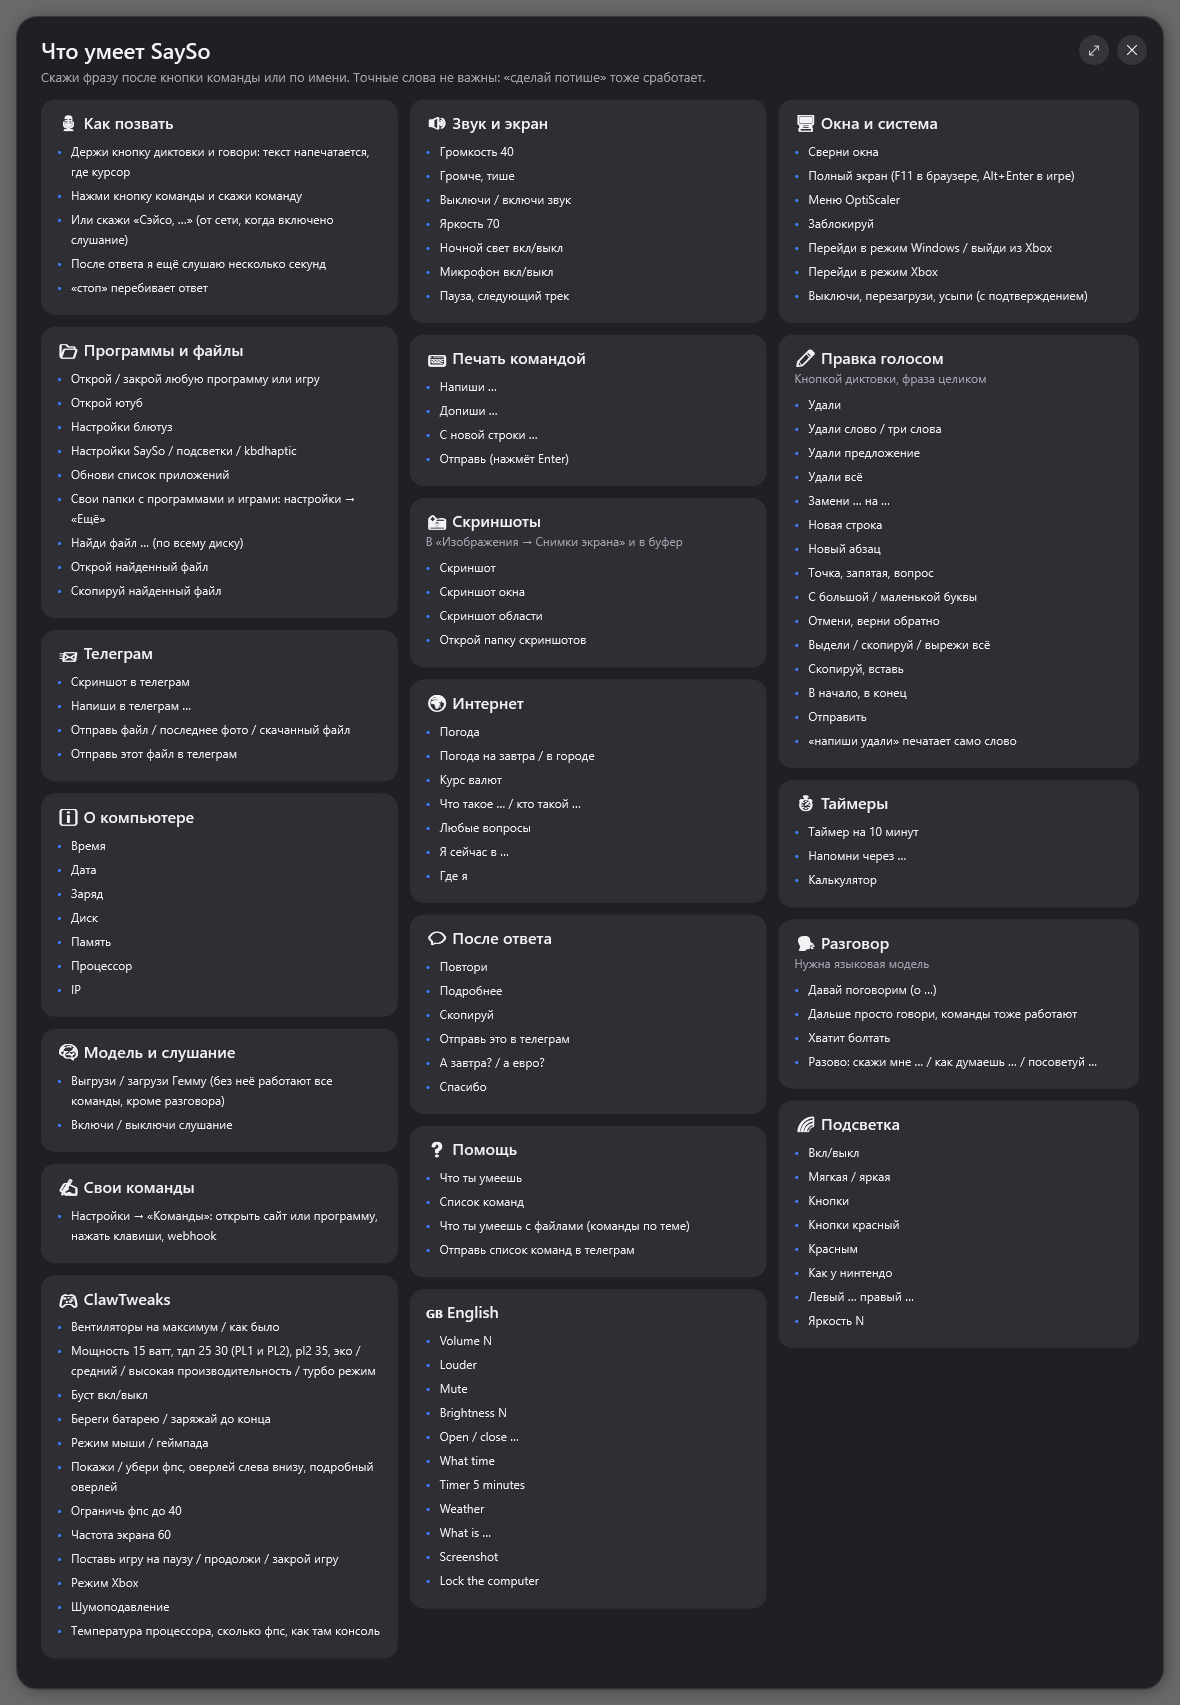
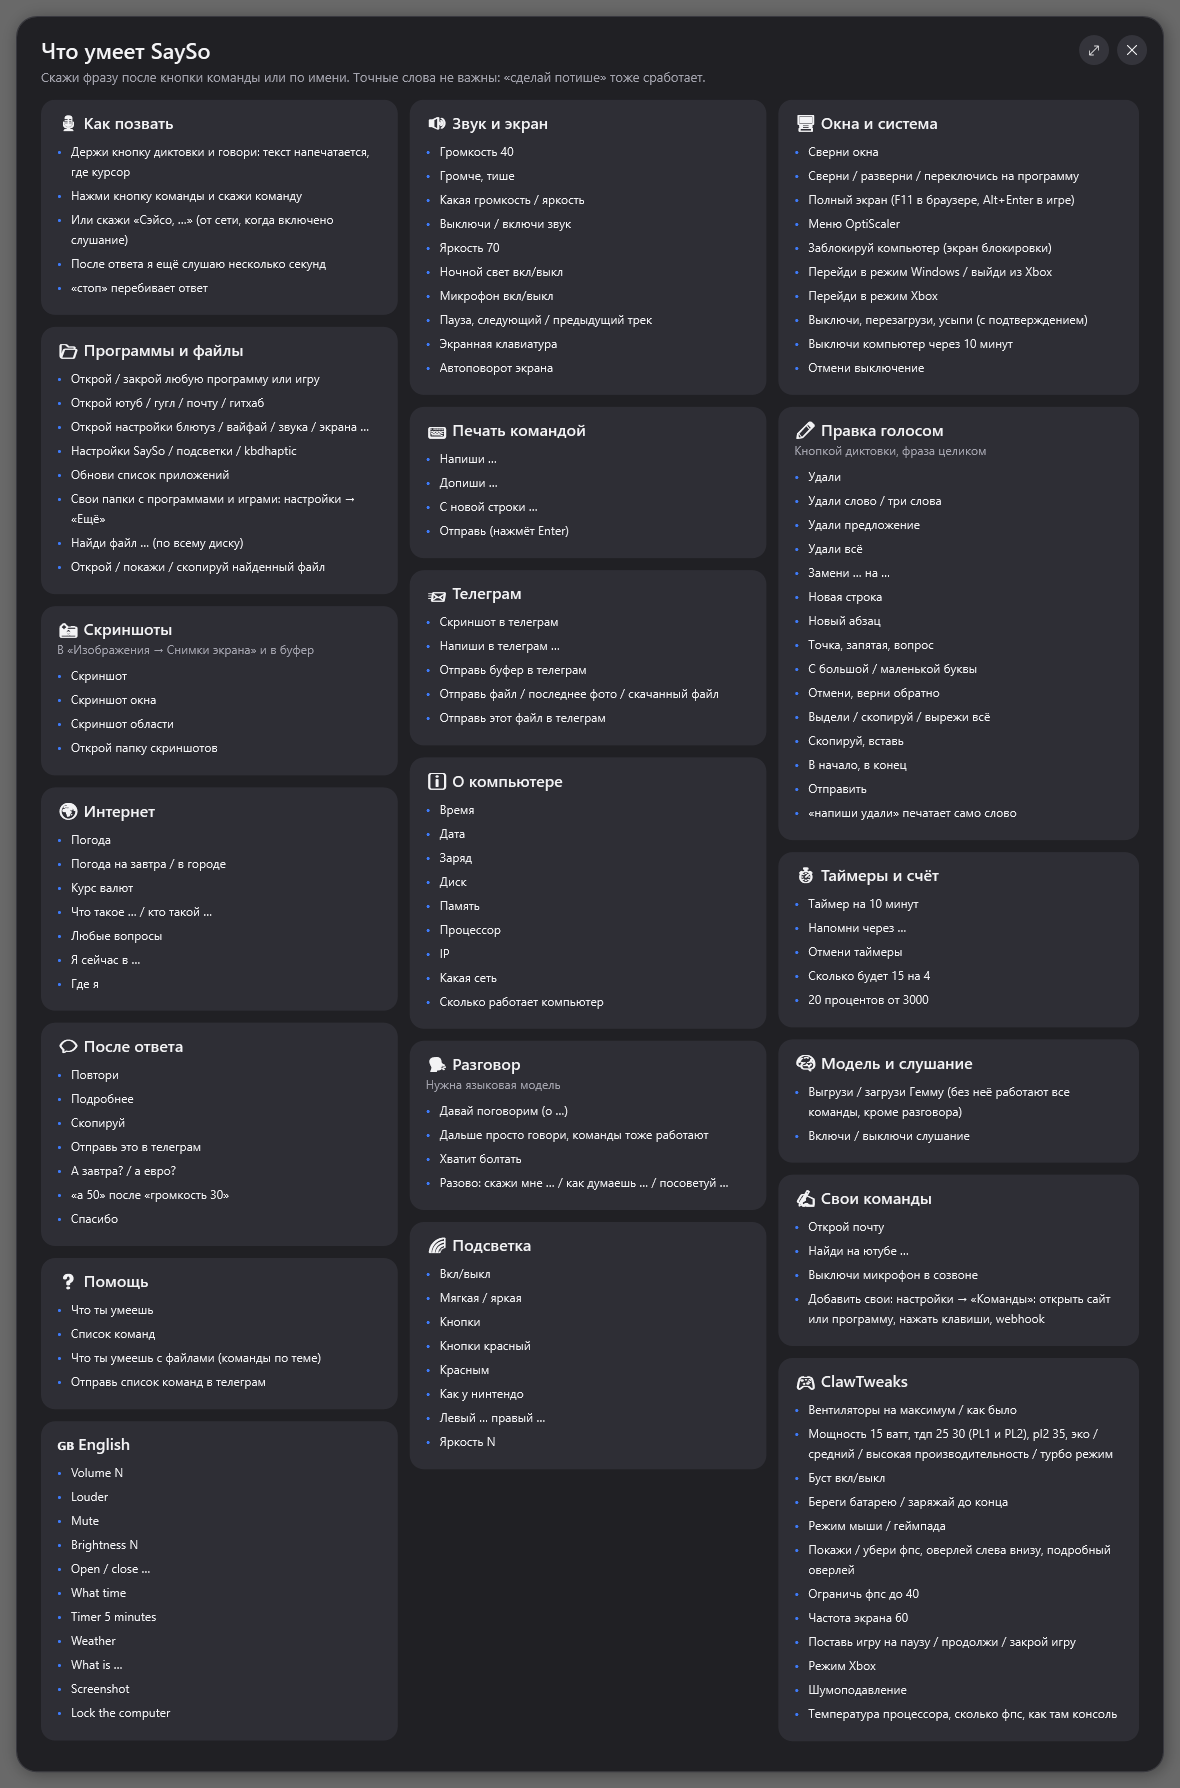
Fuller 'Что умеет' list, no Yandex/VK/Kinopoisk, real sleep where the PC has S3, new screenshot

diff --git a/docs/ВОЗМОЖНОСТИ.md b/docs/ВОЗМОЖНОСТИ.md
@@ -29,22 +29,22 @@
 - **Беседа:** «давай поговорим», дальше говоришь просто так. Команды при этом тоже работают. «Хватит болтать» заканчивает беседу.
 - **Разовые вопросы:** «скажи мне …», «как думаешь …», «посоветуй …».
 - **Про последний ответ:** «повтори», «подробнее», «скопируй», «отправь это в телеграм».
-- **Продолжить тему:** «а завтра?», «а евро?».
+- **Продолжить тему:** «а завтра?», «а евро?», «а 50» после «громкость 30».
 
 ## Компьютер
-- **Звук и экран:** громкость 50, громче, тише, яркость 70.
+- **Звук и экран:** громкость 50, громче, тише, яркость 70, «какая громкость», экранная клавиатура, автоповорот экрана.
 - **Включить или выключить:** звук, микрофон, ночной свет.
-- **Музыка:** пауза, следующий трек.
-- **Окна:** сверни окна, полный экран (в браузере это F11, в игре Alt+Enter), меню OptiScaler (клавиша Insert), заблокируй компьютер.
+- **Музыка:** пауза, следующий и предыдущий трек.
+- **Окна:** сверни окна, «сверни / разверни / переключись на» программу, полный экран (в браузере это F11, в игре Alt+Enter), меню OptiScaler (клавиша Insert), заблокируй компьютер (экран блокировки Windows).
 - **Настройки наших программ:** «настройки SaySo», «настройки подсветки», «настройки хаптика», «открой подсветку».
 - **Режим Xbox:** «перейди в режим Windows», «выйди из Xbox», «вернись на рабочий стол»; обратно «перейди в режим Xbox».
-- **Программы и игры:** открой или закрой любую, «открой ютуб», «настройки блютуз». Свои папки с программами и играми добавляются в настройках, вкладка «Ещё».
-- **Питание:** выключи, перезагрузи, усыпи (с подтверждением).
-- **Сведения:** время, дата, заряд, место на диске, память, процессор, IP-адрес.
+- **Программы и игры:** открой или закрой любую, сайты («открой ютуб», «открой почту»), разделы параметров Windows («открой настройки вайфай»). Свои папки с программами и играми добавляются в настройках, вкладка «Ещё».
+- **Питание:** выключи, перезагрузи, усыпи (с подтверждением), «выключи компьютер через 10 минут», «отмени выключение». Где обычного сна по команде нет (современный ждущий режим, например MSI Claw), «усыпи» переводит в гибернацию.
+- **Сведения:** время, дата, заряд, место на диске, память, процессор, IP-адрес, сеть, сколько работает компьютер.
 
 ## Файлы
 - **Поиск:** «найди файл договор аренды». Ищет по всему диску, понимает название своими словами и показывает файл в папке.
-- **Что дальше с найденным файлом:** скопируй найденный файл, отправь этот файл в телеграм, открой найденный файл.
+- **Что дальше с найденным файлом:** открой, покажи или скопируй найденный файл, отправь этот файл в телеграм.
 - **Отправка без поиска:** отправь последнее фото, отправь скачанный файл.
 
 ## Скриншоты
@@ -54,7 +54,7 @@
 
 ## Телеграм
 - напиши в телеграм «купить хлеб»;
-- скриншот, файл или последний ответ в телеграм;
+- скриншот, файл, буфер обмена или последний ответ в телеграм;
 - отправь список команд в телеграм.
 
 ## Интернет
@@ -65,8 +65,8 @@
 
 ## Время
 - таймер на 10 минут;
-- напомни через час …;
-- калькулятор.
+- напомни через час …, отмени таймеры;
+- счёт: «сколько будет 15 на 4», «20 процентов от 3000», «корень из 144».
 
 ## MSI Claw
 - **Мощность:** эко (8 Вт), средний (15 Вт), высокая производительность (30 Вт), турбо (30/37 Вт). Можно и точно: «мощность 20 ватт», «ТДП 25 30».
